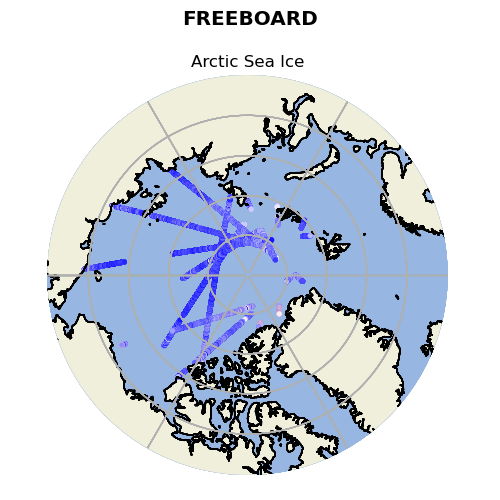
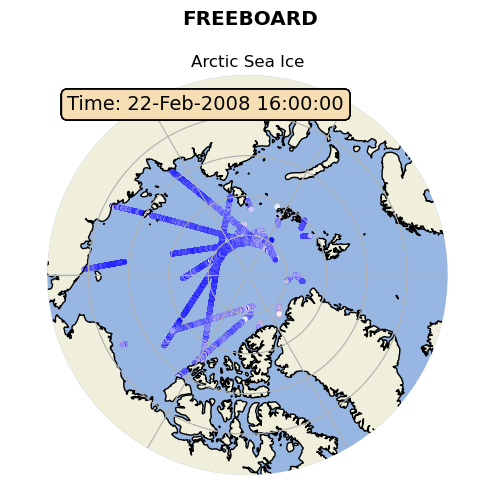
Added ticker to the plotting_track_animation_over_time.py file

diff --git a/practice_plotting/plotting_track_animation_over_time.py b/practice_plotting/plotting_track_animation_over_time.py
@@ -28,17 +28,29 @@ def animateTrackLinesNorthAndSouth(filePaths):
     previousTracks = []  # List to keep track of all artists
     fig, northMap, southMap = generateNorthandSouthPoleAxes()
 
+    addMapFeatures(northMap, oceanFeature=OCEANFEATURE, landFeature=LANDFEATURE, grid=GRIDON, coastlines=COASTLINES)
+    addMapFeatures(southMap, oceanFeature=OCEANFEATURE, landFeature=LANDFEATURE, grid=GRIDON, coastlines=COASTLINES)
+       
     startTime = time.time()
 
     # Load the mesh and data to plot.
     for file in filePaths:
+        # Get data from one file
         output = netCDF4.Dataset(file)
         latCell, lonCell = getLatLon(output)
         satelliteTrack = reduceToOneDay(output, keyVariableToPlot=VARIABLETOPLOT, dayNumber=0)
-        northPoleScatter, southPoleScatter = generateNorthandSouthPoleMaps(fig, northMap, southMap, latCell, lonCell, satelliteTrack, mapImageFileName, 0,1,1,1,1)
+        
+        textBoxString = "Time: " + printDateTime(output)
+        textBox = northMap.text(0.05, 0.95, textBoxString, transform=northMap.transAxes, fontsize=14,
+                verticalalignment='top', bbox=boxStyling)
+
+        # Plot each track for that day
+        northPoleScatter, southPoleScatter = generateNorthandSouthPoleMaps(fig, northMap, southMap, 
+                                                                           latCell, lonCell, satelliteTrack, 
+                                                                           mapImageFileName, 0,0,0,0,0,0)
         
         # Allows it to remember all the tracks (not overwrite with each new track)
-        previousTracks.extend([northPoleScatter, southPoleScatter])
+        previousTracks.extend([northPoleScatter, southPoleScatter, textBox])
         artists.append(list(previousTracks)) 
 
     ani = animation.ArtistAnimation(fig=fig, artists=artists, interval=100)
@@ -52,6 +64,7 @@ def animateTrackLinesNorthAndSouth(filePaths):
     endTime = time.time()
     print("It took this much time: ", endTime-startTime)
 
+
 def animateTrackLinesNorth(filePaths):
     """ Animates all tracks for a given period of time (one day or one month). 
     Depends on what items are in the specified subdirectory. """
@@ -60,17 +73,28 @@ def animateTrackLinesNorth(filePaths):
     previousTracks = []  # List to keep track of all artists
     fig, northMap = generateNorthPoleAxes()
 
+    addMapFeatures(northMap, oceanFeature=OCEANFEATURE, landFeature=LANDFEATURE, grid=GRIDON, coastlines=COASTLINES)
+
     startTime = time.time()
 
     # Load the mesh and data to plot.
     for file in filePaths:
+        # Get data from one file
         output = netCDF4.Dataset(file)
         latCell, lonCell = getLatLon(output)
         satelliteTrack = reduceToOneDay(output, keyVariableToPlot=VARIABLETOPLOT, dayNumber=0)
-        northPoleScatter = generateNorthPoleMap(fig, northMap, latCell, lonCell, satelliteTrack, mapImageFileName, 0,1,1,1,1)
+        
+        textBoxString = "Time: " + printDateTime(output)
+        textBox = northMap.text(0.05, 0.95, textBoxString, transform=northMap.transAxes, fontsize=14,
+                verticalalignment='top', bbox=boxStyling)
+
+        # Plot each track for that day
+        northPoleScatter = generateNorthPoleMap(fig, northMap,
+                                                         latCell, lonCell, satelliteTrack, 
+                                                         mapImageFileName, 0,0,0,0,0,0)
         
         # Allows it to remember all the tracks (not overwrite with each new track)
-        previousTracks.extend([northPoleScatter])
+        previousTracks.extend([northPoleScatter, textBox])
         artists.append(list(previousTracks)) 
 
     ani = animation.ArtistAnimation(fig=fig, artists=artists, interval=100)
@@ -82,6 +106,7 @@ def animateTrackLinesNorth(filePaths):
 
     endTime = time.time()
     print("It took this much time: ", endTime-startTime)
+
 
 def main():
     filePaths = gatherFiles()

diff --git a/practice_plotting/plotting_track_animation.py b/practice_plotting/plotting_track_animation.py
@@ -35,13 +35,14 @@ def getLatLon(output):
 def printDateTime(output):
     """ Prints and returns the date from the .nc file's time_string variable. """
     rawTime = output.variables["time_string"][:1].ravel()
-    timeString = "time_stamp decoded: "
+    timeString = ""
     for i in range(len(rawTime)):
         timeString += rawTime[i].decode()
     print(timeString)
     return timeString 
 
 def convertTime(start):
+    """ Convert time from proleptic_gregorian to a human-readable string"""
     base_date = datetime(2000, 1, 1)
     d = base_date + timedelta(hours=start)
     timeString = d.strftime("%Y-%m-%d %H:%M:%S")
@@ -49,7 +50,7 @@ def convertTime(start):
     return timeString
 
 def getTime(output, length):
-    """ Pull the timestamp from the .nc file. Populate an array with times. """
+    """ Pull the starting timestamp from the .nc file. Populate an array with times. """
     start = float(output.variables["time"][:1])
     stop = output.variables["time"][:1] + length
     step = .00036 # How much time elapses between pulses (there are 10,000 pulses per second)

diff --git a/practice_plotting/config.py b/practice_plotting/config.py
@@ -31,8 +31,8 @@ outputFileName = r"\satellite_data_preprocessed\one_day\icesat_E3SM_spring_2008_
 subdirectory = r"/satellite_data_preprocessed/one_day" # Satellite Track folder for one day
 
 # Change these to save without overwriting your files
-animationFileName   = "satellite_track_2008_02_22_14_animation.gif"   # Should be a .gif extension
-mapImageFileName    = "satellite_track_2008_02_22_14.png"             # Should be a .png file extension
+animationFileName   = "satellite_track_2008_02_22_animation.gif"   # Should be a .gif extension
+mapImageFileName    = "satellite_track_2008_02_22.png"             # Should be a .png file extension
 
 # animationFileName   = "satellite_track_2008_02_22_14_animation.gif"   # Should be a .gif extension
 # mapImageFileName    = "satellite_track_2008_02_22_14.png"             # Should be a .png file extension
